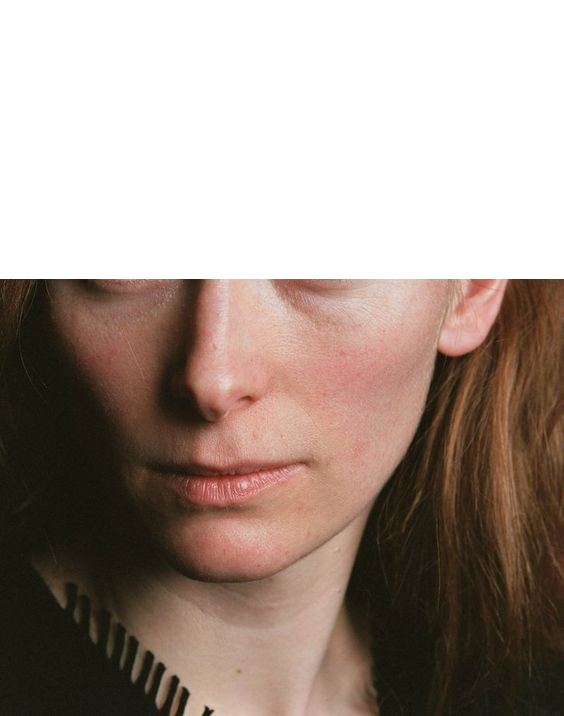
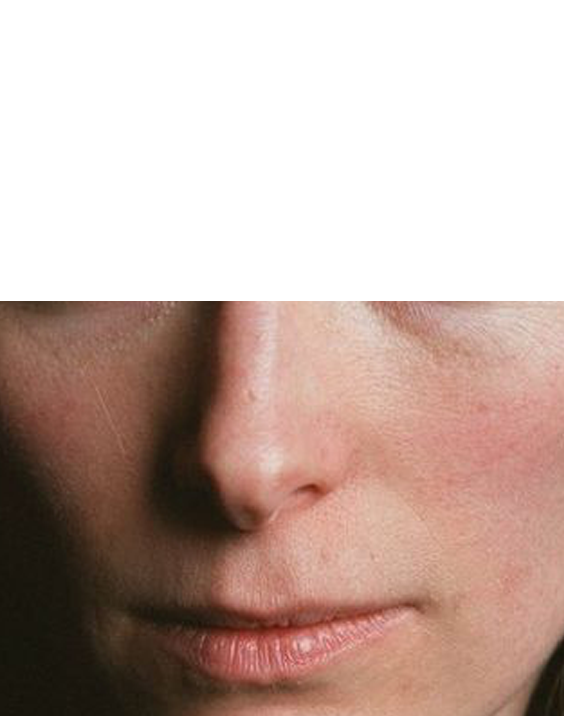
ii

diff --git a/src/index.html b/src/index.html
@@ -3,68 +3,35 @@
 <head>
   <meta charset="UTF-8">
   <meta name="viewport" content="width=device-width, initial-scale=1.0">
-  <title>Document</title>
+  <title>Image Viewer</title>
   <link rel="stylesheet" href="styles.css">
-  <link rel="preconnect" href="https://fonts.googleapis.com">
-<link rel="preconnect" href="https://fonts.gstatic.com" crossorigin>
-<link href="https://fonts.googleapis.com/css2?family=Libre+Baskerville&display=swap" rel="stylesheet">
 </head>
 <body>
-  <div class="container" id="text-container">
-    <h4 class="text">Un vent frais souffle doucement sur la plage déserte, emportant avec lui le parfum salé de l'océan.</h4>
-    <h4 class="text">Les vagues dansent en rythme avec le coucher de soleil, créant un spectacle magique et apaisant pour tous l</h4>
-    <h4 class="text">Le surfeur glisse avec élégance sur la crête de la vague, maîtrisant chaque mouvement avec une grâce </h4>
-    <h4 class="text">Le bruit apaisant de l'océan remplit l'air, créant une symphonie relaxante qui calme l'âme.</h4>
-    <h4 class="text">Seul le surfeur comprend la véritable connexion avec la mer, ressentant chaque pulsation de l'océan .</h4>
-    <h4 class="text">Les mouettes planent au-dessus, observant la scène avec curiosit</h4>
-    <h4 class="text">Chaque vague raconte une histoire différente, portant les secrets du passé et de l'avenir à travers le co</h4>
-    <h4 class="text">Le sable chaud s'étend à perte de vue, invitant </h4>
-    <h4 class="text">Le surf devient une danse harmonieuse avec l'océan, une expression </h4>
-    <h4 class="text">La brise marine caresse le visage du surfeur passionné, </h4>
-    <h4 class="text">La mer offre un refuge paisible pour ceux qui </h4>
-    <h4 class="text">Se perdre dans l'océan, c'est trouver la liberté, une aventure .</h4>
-  </div>
-  
-  <div class="img-container">
-    <img src="./image.png" alt="" class="image">
-  </div>
-    
-    
-  </div>
+ 
+<section id="imageIn">
+ <img src="./mouth.jpeg" alt="">
+</section>
+<section id="textOut" style="margin-top: 200px;">
+    <h2>Lorem ipsum dolor, sit amet consectetur adipisicing elit. Repudiandae reprehenderit sint, culpa error natus magni sed recusandae cupiditate quas blanditiis a similique voluptatem voluptas veniam sapiente est laborum maxime? Impedit.</h2>
+</section>
 
-  <script src="https://cdnjs.cloudflare.com/ajax/libs/gsap/3.12.5/gsap.min.js"></script>
-  <script>
+<script src="https://cdnjs.cloudflare.com/ajax/libs/gsap/3.12.4/gsap.min.js"></script>
+<script src="https://cdnjs.cloudflare.com/ajax/libs/gsap/3.12.4/ScrollTrigger.min.js"></script>
+<script>
+ 
+  const innerHeight = window.innerHeight;
 
-    document.addEventListener("DOMContentLoaded", function() {
-      var textContainer = document.getElementById("text-container");
-      var texts = textContainer.getElementsByClassName("text");
-
-      // Appliquer des margins-left aléatoires entre les éléments <h4>
-      for (var i = 1; i < texts.length; i++) {
-        var randomMargin = Math.random() * 100 +45; 
-        texts[i].style.marginLeft = -randomMargin + "px";
-      }
-    });
-
-    document.addEventListener("DOMContentLoaded", function() {
-    var textTimeline = gsap.timeline();
-
-    // Animation pour faire apparaître le texte
-    textTimeline.fromTo(".text", { y: -400 }, { y: "222", 
-      duration: 20, 
-      ease: "steps(20)", 
-      stagger: {
-        each: 3,
-        from: "random",
-      }
-    });
-
-    // Animation pour faire disparaître le texte
-    textTimeline.to(".text", {
-      color: "white",
-      duration: 1, // Ajustez la durée selon vos besoins
-    });
+  gsap.to("#imageIn", {
+    scale: 8, 
+    duration: 3,
+    scrollTrigger: {
+      trigger: "#imageIn",
+      pin: true,
+      end: `+=${innerHeight * 1.3}`,
+      scrub: 3
+    }
   });
-  </script>
+</script>
+
 </body>
 </html>

diff --git a/src/TextDestvertical.html b/src/TextDestvertical.html
@@ -1,0 +1,66 @@
+<!DOCTYPE html>
+<html lang="en">
+<head>
+  <meta charset="UTF-8">
+  <meta name="viewport" content="width=device-width, initial-scale=1.0">
+  <title>Document</title>
+  <link rel="stylesheet" href="styles.css">
+  <link rel="preconnect" href="https://fonts.googleapis.com">
+<link rel="preconnect" href="https://fonts.gstatic.com" crossorigin>
+<link href="https://fonts.googleapis.com/css2?family=Libre+Baskerville&display=swap" rel="stylesheet">
+</head>
+<body>
+  <div class="container" id="text-container">
+    
+    <h4 class="text">La mer offre un refuge paisible pour ceux qui </h4>
+    <h4 class="text">Se perdre dans l'océan, c'est trouver la liberté, une aventure .</h4>
+    <h4 class="text">Le sable chaud s'étend à perte de vue, invitant </h4>
+    <h4 class="text">Le surf devient une danse harmonieuse avec l'océan, une expression </h4>
+    <h4 class="text">La brise marine caresse le visage du surfeur passionné, </h4>
+   
+  </div>
+  </div>
+  
+  <div class="img-container">
+    <img src="./image.png" alt="" class="image">
+  </div>
+    
+    
+  </div>
+
+  <script src="https://cdnjs.cloudflare.com/ajax/libs/gsap/3.12.5/gsap.min.js"></script>
+  <script>
+
+    document.addEventListener("DOMContentLoaded", function() {
+      var textContainer = document.getElementById("text-container");
+      var texts = textContainer.getElementsByClassName("text");
+
+      // Appliquer des margins-left aléatoires entre les éléments <h4>
+      for (var i = 1; i < texts.length; i++) {
+        var randomMargin = Math.random() * 100 +55; 
+        texts[i].style.marginLeft = -randomMargin + "px";
+      }
+    });
+
+    document.addEventListener("DOMContentLoaded", function() {
+    var textTimeline = gsap.timeline();
+
+    // Animation pour faire apparaître le texte
+    textTimeline.fromTo(".text", { y: -90 }, { y: "222", 
+      duration: 10, 
+      ease: "steps(20)", 
+      stagger: {
+        each: 4,
+        from: "random",
+      }
+    });
+
+    // Animation pour faire disparaître le texte
+    textTimeline.to(".text", {
+      color: "white",
+      duration: 1, // Ajustez la durée selon vos besoins
+    });
+  });
+  </script>
+</body>
+</html>

diff --git a/src/styles.css b/src/styles.css
@@ -9,7 +9,9 @@ section {
   display: flex;
   justify-content: center;
   align-items: center;
+  
 }
+
 
 h2 {
   font-size: 22px;
@@ -18,27 +20,19 @@ h2 {
 }
 
 img {
-  height: 50em;
+  height: 50vh; /* Hauteur de l'écran */
+  
+  
 }
 
 /*-------------------------------- */
-
-
 
 body {
   margin: 0;
 
   font-family: "Times New Roman", Times, serif;
-  overflow: hidden; /* Empêcher le défilement vertical */
-}
-
-.image {
-  position: absolute;
-  z-index: 1;
-  
-  height: 100%;
-  object-fit: cover;
-}
+  /* overflow: hidden; /* Empêcher le défilement vertical */
+} */
 
 .container {
   display: flex;
@@ -47,6 +41,7 @@ body {
   position: absolute;
   z-index: 2;
   width: 100%;
+  max-width: 100vh;
   height: 100%; /* Hauteur du conteneur à 100% de la hauteur de la vue */
   font-family: "Times New Roman", Times, serif;
   line-height: 1.5;
@@ -55,17 +50,16 @@ body {
 
 .text {
   font-family: 'Libre Baskerville', serif;
-font-size: 10px;
+  font-size: 10px;
   background-color: white;
-  writing-mode: sideways-lr;
-  text-orientation: sideways;
+  writing-mode: vertical-lr;
+  transform: rotate(180deg);
   margin: 0 10px;
   padding: 6px 6px;
+  border-radius: 25px;
 }
 
-
-.img-container{
+.img-container {
   display: flex;
   justify-content: center;
-  bottom: 20px;
 }
